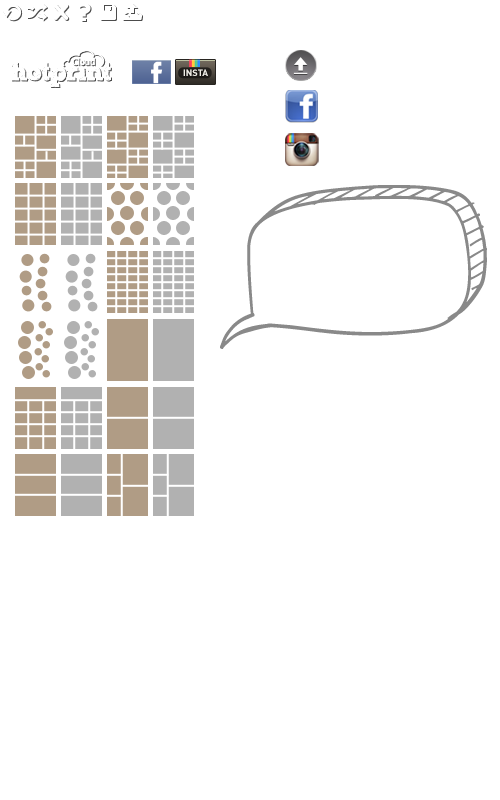
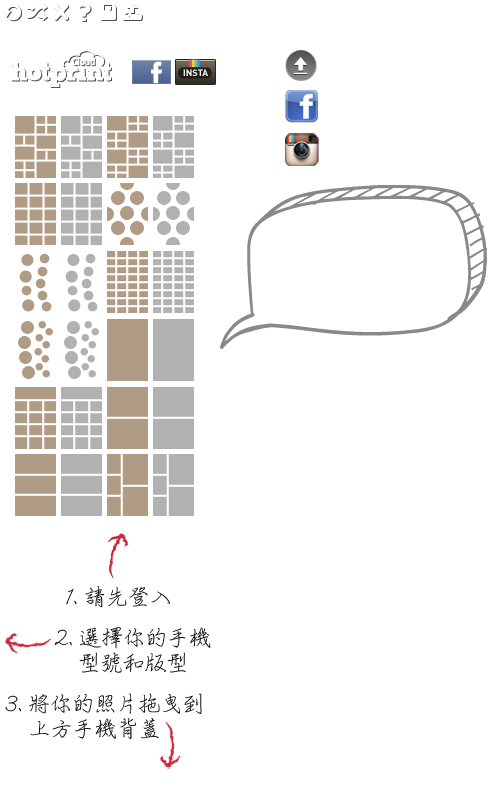
加入提示文字 改變 source bar 固定底部的辦法 暫時不自動調整 source bar 寬度

diff --git a/css/screen.css b/css/screen.css
@@ -177,8 +177,8 @@ section {
 }
 
 .recent {
-	position:absolute;
-	top:0px;
+    position:fixed;	
+	bottom:0;
 	left:0px;  
 	background:#aaa;
 	width:100%;
@@ -306,12 +306,14 @@ body.not-logged-in #my-gallery { display: none; }
 body.not-logged-in #clear-design { display: none; }
 body.not-logged-in #logoutZone { display: none; }
 body.not-logged-in #loginZone { display: block; }
+body.not-logged-in .tip { display: block; }
 
 body.logged-in #save-design { display: block; }
 body.logged-in #random-design { display: block; }
 body.logged-in #clear-design { display: block; }
 body.logged-in #logoutZone { display: block; }
 body.logged-in #loginZone { display: none; }
+body.logged-in .tip { display: none; }
 
 #menubar {
 	position:absolute;
@@ -630,6 +632,42 @@ body.logged-in #loginZone { display: none; }
 	background-image: url(images/icons2.png);
 	background-position: -220px -184px;
 	z-index: 0;
+}
+
+#tip1 {
+	position: absolute;
+	height: 75px;
+	width: 110px;
+	left: 1200px;
+	top: 60px;
+	background-repeat: no-repeat;
+	background-image: url(images/icons2.png);
+	background-position: -63px -532px;
+	z-index: 999;
+}
+
+#tip2 {
+	position: absolute;
+	height: 50px;
+	width: 210px;
+	left: 260px;
+	top: 80px;
+	background-repeat: no-repeat;
+	background-image: url(images/icons2.png);
+	background-position: -2px -624px;
+	z-index: 999;
+}
+
+#tip3 {
+	position: fixed;
+	height: 80px;
+	width: 200px;
+	left: 1200px;
+	bottom: 180px;
+	background-repeat: no-repeat;
+	background-image: url(images/icons2.png);
+	background-position: -2px -690px;
+	z-index: 999;
 }
 
 .layout_item {

diff --git a/js/application.js b/js/application.js
@@ -923,15 +923,15 @@ function loadLayout(_maskImg, ox , oy, _layoutName){
 function setContainer(){  
     var winH=$(window).height();  
     var docH=$(document).height();  
-    $('#wrapper').css('height',winH-$('.recent').height()+'px');  
-    //$('#wrapper').css('width',$(document).width()+'px');  
+    $('#wrapper').css('height',winH-$('.recent').height()+'px');     
 }  
   
 function setFooterTop(){  
-    var winH=$(window).height();   
-    $('.recent').css('top',winH-$('.recent').height()+$(document).scrollTop()+'px');  
-    $('.recent').css('width',$(document).width()+'px');  
-	$('.ad-gallery').css('width',($(document).width()-50)+'px');
+	$('#tip1').css('left', Math.round(parseInt($('#popbox > .open').offset().left, 10))-60);
+	$('#tip3').css('left', Math.round(parseInt($('#popbox > .open').offset().left, 10))-60);
+    //$('.recent').css('width',$(document).width()+'px');
+	//$('.ad-gallery').css('width',($(document).width()-70)+'px');
+
 }
 
 function setCanvas(_phoneName) {

diff --git a/index.html b/index.html
@@ -158,6 +158,9 @@
 </div>
 <div class="buybutton">加入購物車</div>
 <div id="price_tag"><div id='price'>US$34.99<br><span style="font-size: 16px; color: grey">免運費</span></div></div>
+<div id="tip1" class="tip"></div>
+<div id="tip2" class="tip"></div>
+<div id="tip3" class="tip"></div>
 <div id="fb-root"></div>
 <script>(function(d, s, id) {
   var js, fjs = d.getElementsByTagName(s)[0];
